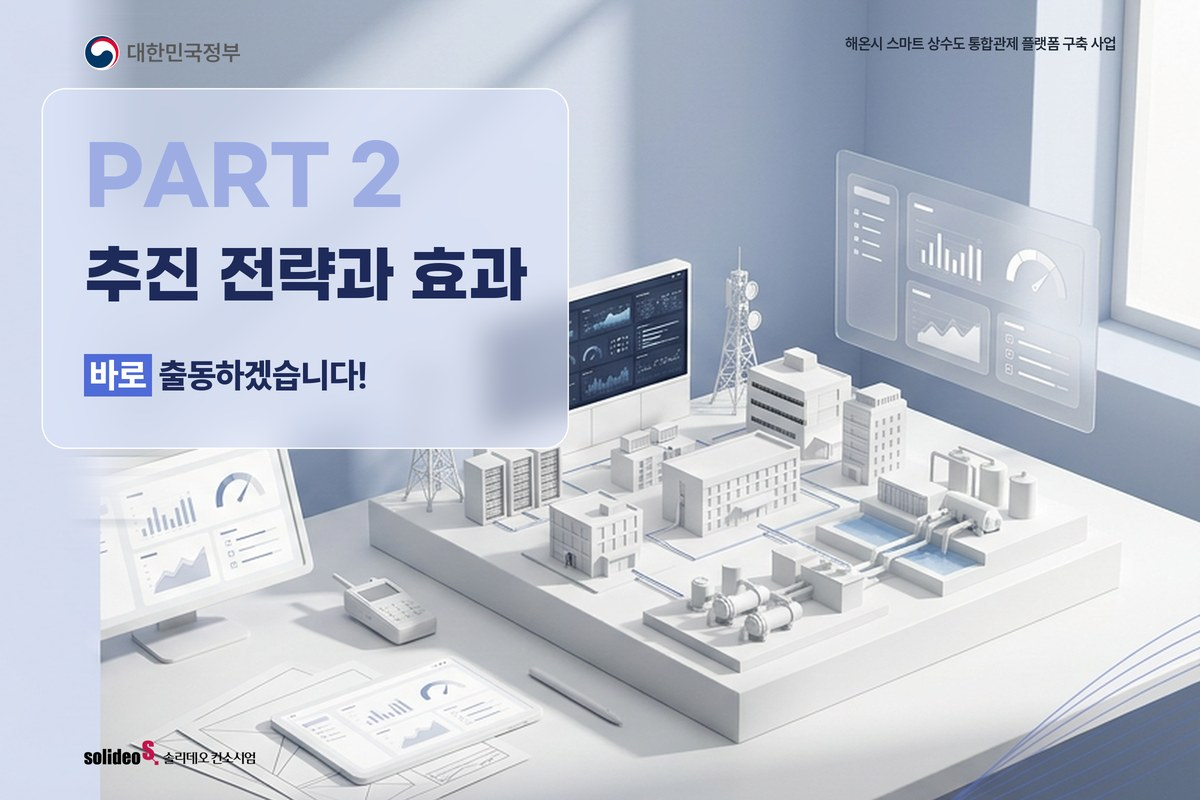
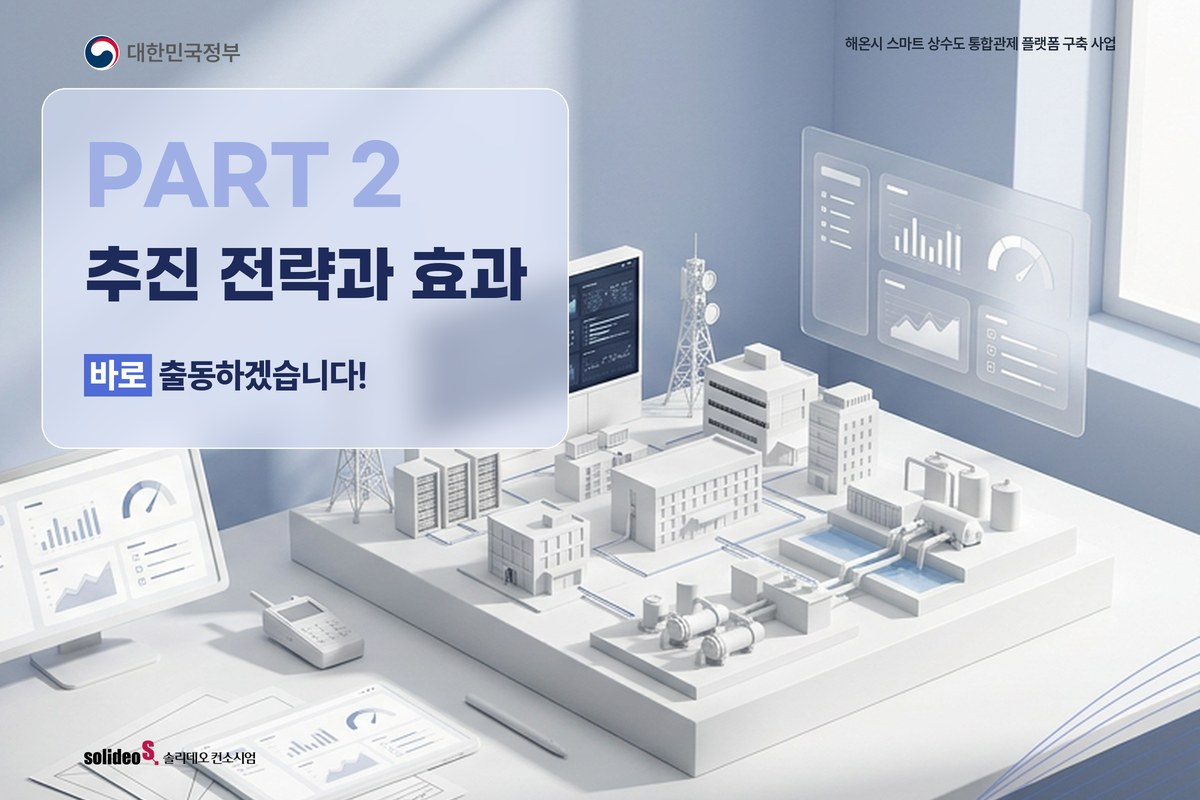
공개본 동기화 — 개발 저장소 6287f92

diff --git a/apps/web/app/modules/deck/legacy/DesignTypes.tsx b/apps/web/app/modules/deck/legacy/DesignTypes.tsx
@@ -7,7 +7,7 @@ import { cn, Modal, Ms } from "./ui";
 export type DesignType = { id: string; name: string; desc: string; fits: string; samples?: number };
 export const DESIGN_TYPES: DesignType[] = (data as { styles: DesignType[] }).styles.map((s) => ({ ...s, samples: s.samples ?? 6 }));   // 1 표지 · 2 목차 · 3 간지1 · 4 본문1 · 5 간지2 · 6 본문2
 export const typeName = (id?: string | null) => DESIGN_TYPES.find((t) => t.id === (id || "a"))?.name ?? "공공 제안 클레이";
-export const THUMB_V = 23;   // 샘플 그림을 바꾸면 올린다(브라우저 캐시). 22: 견본 작업의 간지2·본문2 를 5·6 으로 · 23: D 간지2 위아래 흰 띠 잘라 냄(R56)
+export const THUMB_V = 24;   // 샘플 그림을 바꾸면 올린다(브라우저 캐시). 22: 견본 작업의 간지2·본문2 를 5·6 으로 · 23·24: D 간지2 위아래 흰 띠·왼쪽 판 경계 잘라 냄(R56)
 export const thumb = (id: string, n: number) => `${import.meta.env.BASE_URL}styles/${id}/${n}.jpg?v=${THUMB_V}`;
 const hide = (e: { target: EventTarget }) => { (e.target as HTMLImageElement).style.visibility = "hidden"; };
 

diff --git a/engine/frontdraw.py b/engine/frontdraw.py
@@ -48,8 +48,19 @@ def _trim_letterbox(im, anchor="center"):
     if top[ty] < 30 or bot[by] < 30 or not flat(0, ty) or not flat(by + 1, h):
         return im
     t, b = ty + 1 + 2, by - 2   # 경계 줄의 번짐 2px 도 뺀다
-    cw = min(w, int((b - t) * w / h))   # 원래 비율로 자를 폭
-    x = {"right": w - cw, "left": 0}.get(anchor, (w - cw) // 2)
+    # 띠를 넣은 그림은 글 쪽에 곧은 판(세로 경계)까지 두는 일이 많다 — 그대로 채우면 그 경계가 화면 끝에 '잘린 듯' 남는다(10-16 D 간지2 x=471, 차 29).
+    # 글 쪽 절반에서 세로 경계(열 차 20 이상)를 찾으면 그 너머부터 자르고, 폭이 모자라면 높이를 가운데 기준으로 줄여 비율을 맞춘다
+    x0, x1 = 0, w
+    if anchor in ("right", "left"):
+        xs = range(2, w // 2) if anchor == "right" else range(w // 2, w - 3)
+        col = {x: ImageStat.Stat(ImageChops.difference(g.crop((x, t, x + 1, b)), g.crop((x + 1, t, x + 2, b)))).mean[0] for x in xs}
+        sx = max(col, key=col.get)
+        if col[sx] >= 20:
+            x0, x1 = (sx + 4, w) if anchor == "right" else (0, sx - 3)
+    cw = min(x1 - x0, int((b - t) * w / h))   # 원래 비율로 자를 폭
+    ch = int(cw * h / w)
+    t, b = t + ((b - t) - ch) // 2, t + ((b - t) - ch) // 2 + ch
+    x = {"right": x1 - cw, "left": x0}.get(anchor, x0 + (x1 - x0 - cw) // 2)
     return im.crop((x, t, x + cw, b)).resize((w, h), Image.LANCZOS)
 
 
